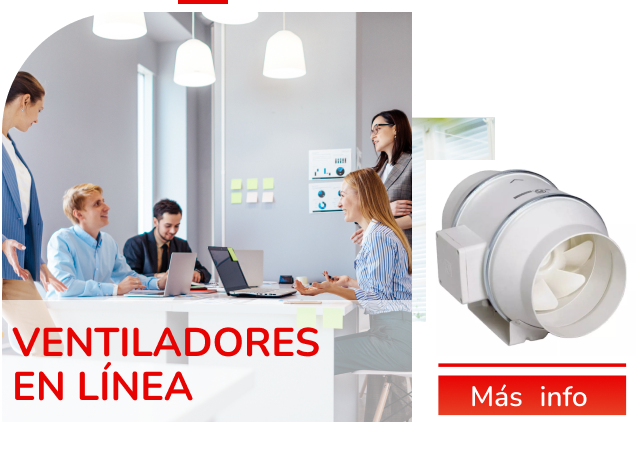
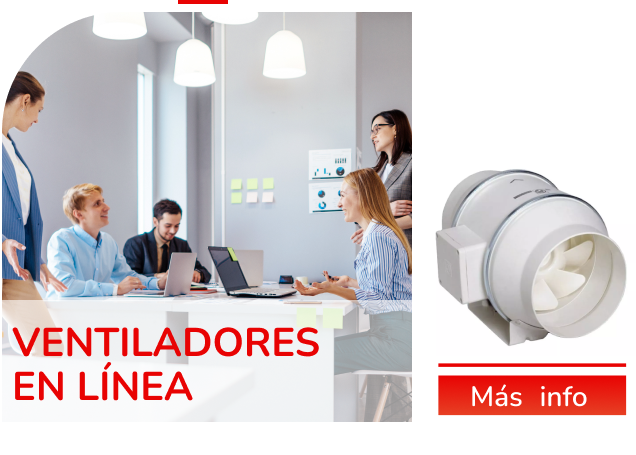
correccion home mobile acercamiento de top-bottom

Changed region(s): [[0.6274, 0.2462, 0.7767, 0.3385], [0.6572, 0.6769, 0.6871, 0.7077]]

diff --git a/app/(home)/page.tsx b/app/(home)/page.tsx
@@ -504,13 +504,17 @@ export default function Home() {
 
                 </> 
                 
-                : <div className="-mt-32- -mt-2"> {/* ----- Mobile ----- */}
+                : <div className="-mt-64 -mb-64 -mt--2"> {/* ----- Mobile ----- */}
                     {/* <div className=" mx-auto h-32">Mapa scroll mobile</div> */}
                     <Suspense fallback={<div>Loading</div>}>
                         <FrameFan />
                     </Suspense>
                      {/* ------------- Diferenciales mobile ------------- */}
-                    <section className=" mx-0 w-full h-full  mr-auto">
+                    
+                </div>
+            }
+
+                <section className=" mx-0 w-full h-full  mr-auto">
                         <Image  
                             classNames={{ wrapper: "pl-auto <-10 min-w-full h-full"}}
                             alt="Imagen Inicio"
@@ -518,10 +522,6 @@ export default function Home() {
                             width={"100%"}
                         />
                     </section>
-                </div>
-            }
-
-           
 
             {/* ------------- Foto Grupal ------------- */}
             <section className="-mt-4 mx-0 w-full mr-auto">
